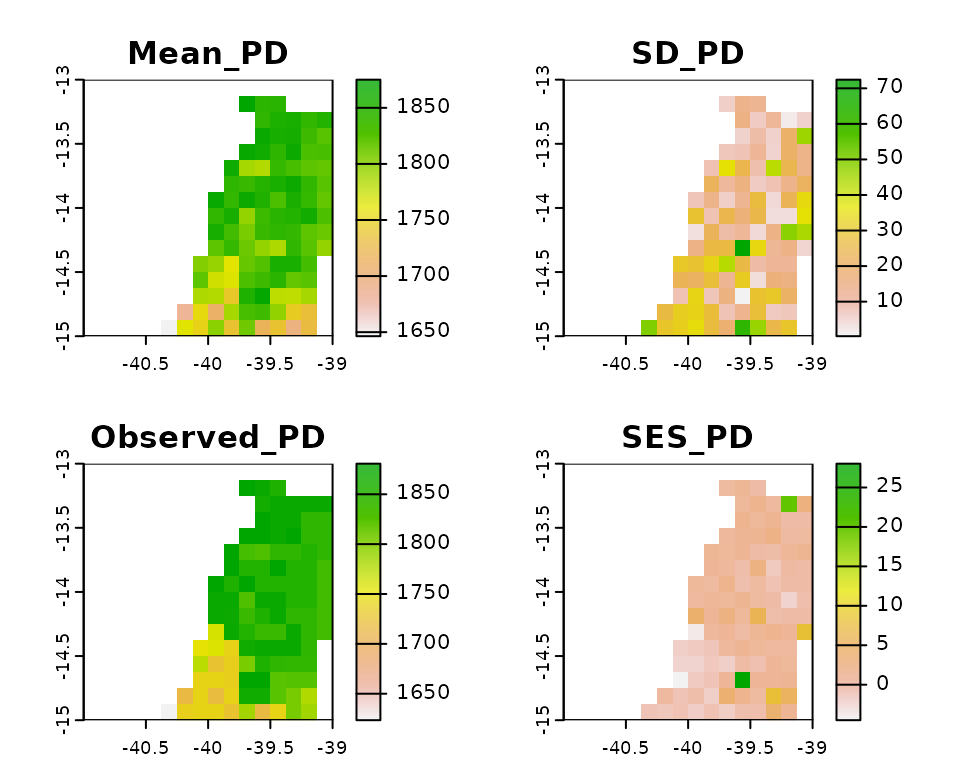
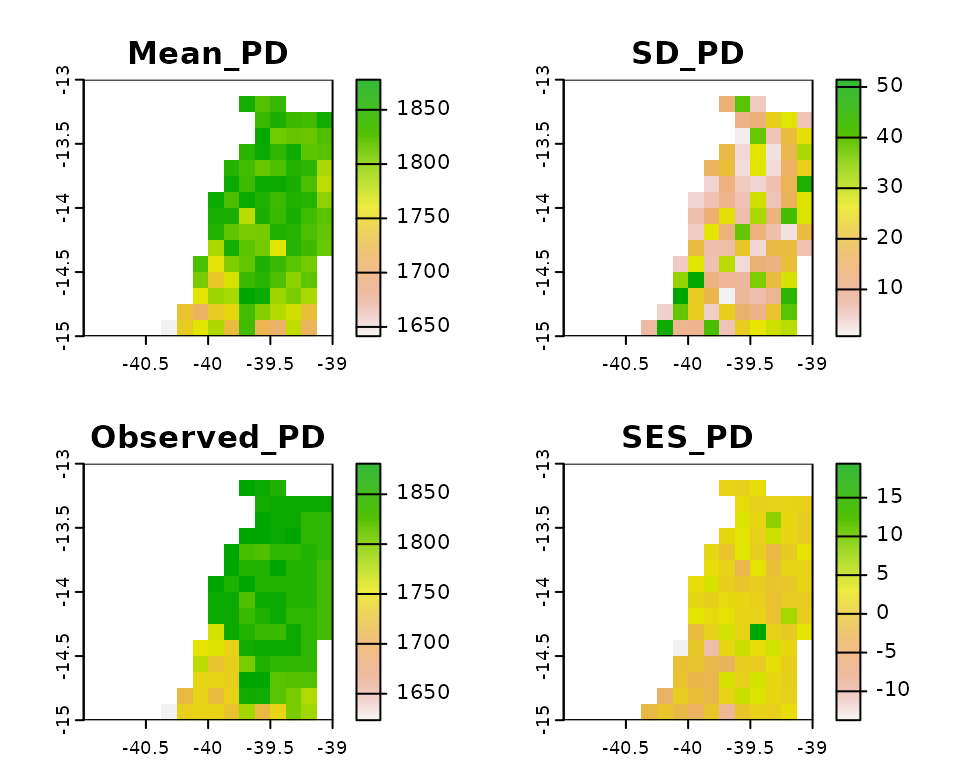
Deploying to gh-pages from @ flaviomoc/divraster@10c078783b43ca5f2b6acb261cac1ab4b65bfc91 🚀

diff --git a/articles/DMSD-vignette.html b/articles/DMSD-vignette.html
@@ -260,9 +260,9 @@ PD alpha diversity.</p>
 <span><span class="co">#&gt; extent      : -41, -39, -15, -13  (xmin, xmax, ymin, ymax)</span></span>
 <span><span class="co">#&gt; coord. ref. : lon/lat WGS 84 (EPSG:4326) </span></span>
 <span><span class="co">#&gt; source(s)   : memory</span></span>
-<span><span class="co">#&gt; names       :  Mean_FD,       SD_FD, Observed_FD,     SES_FD </span></span>
-<span><span class="co">#&gt; min values  : 3.867731, 0.005156558,    3.723151, -11.031019 </span></span>
-<span><span class="co">#&gt; max values  : 4.435728, 0.179340477,    4.378846,   4.201724</span></span>
+<span><span class="co">#&gt; names       :  Mean_FD,      SD_FD, Observed_FD,    SES_FD </span></span>
+<span><span class="co">#&gt; min values  : 3.851190, 0.00274642,    3.723151, -28.04964 </span></span>
+<span><span class="co">#&gt; max values  : 4.429341, 0.13498764,    4.378846,  11.14279</span></span>
 <span><span class="fu">terra</span><span class="fu">::</span><span class="fu"><a href="https://rdrr.io/pkg/terra/man/plot.html" class="external-link">plot</a></span><span class="op">(</span><span class="va">ses.fd</span>, main <span class="op">=</span> <span class="fu"><a href="https://rdrr.io/r/base/names.html" class="external-link">names</a></span><span class="op">(</span><span class="va">ses.fd</span><span class="op">)</span><span class="op">)</span></span></code></pre></div>
 <p><img src="DMSD-vignette_files/figure-html/unnamed-chunk-6-1.png" width="480" style="display: block; margin: auto;"></p>
 <div class="sourceCode" id="cb8"><pre class="downlit sourceCode r">
@@ -276,9 +276,9 @@ PD alpha diversity.</p>
 <span><span class="co">#&gt; extent      : -41, -39, -15, -13  (xmin, xmax, ymin, ymax)</span></span>
 <span><span class="co">#&gt; coord. ref. : lon/lat WGS 84 (EPSG:4326) </span></span>
 <span><span class="co">#&gt; source(s)   : memory</span></span>
-<span><span class="co">#&gt; names       :  Mean_PD,      SD_PD, Observed_PD,    SES_PD </span></span>
-<span><span class="co">#&gt; min values  : 1646.407,  0.2859101,    1623.451, -4.500056 </span></span>
-<span><span class="co">#&gt; max values  : 1875.096, 72.4294706,    1880.676, 28.018516</span></span>
+<span><span class="co">#&gt; names       :  Mean_PD,      SD_PD, Observed_PD,   SES_PD </span></span>
+<span><span class="co">#&gt; min values  : 1641.455,  0.7642228,    1623.451, -13.7298 </span></span>
+<span><span class="co">#&gt; max values  : 1877.746, 51.4401423,    1880.676,  19.3918</span></span>
 <span><span class="fu">terra</span><span class="fu">::</span><span class="fu"><a href="https://rdrr.io/pkg/terra/man/plot.html" class="external-link">plot</a></span><span class="op">(</span><span class="va">ses.pd</span>, main <span class="op">=</span> <span class="fu"><a href="https://rdrr.io/r/base/names.html" class="external-link">names</a></span><span class="op">(</span><span class="va">ses.pd</span><span class="op">)</span><span class="op">)</span></span></code></pre></div>
 <p><img src="DMSD-vignette_files/figure-html/unnamed-chunk-6-2.png" width="480" style="display: block; margin: auto;"></p>
 </div>

diff --git a/reference/spat.rand.html b/reference/spat.rand.html
@@ -136,9 +136,9 @@ a calling function.</p></dd>
 <span class="r-out co"><span class="r-pr">#&gt;</span> extent      : 0, 1, 0, 1  (xmin, xmax, ymin, ymax)</span>
 <span class="r-out co"><span class="r-pr">#&gt;</span> coord. ref. : lon/lat WGS 84 (EPSG:4326) </span>
 <span class="r-out co"><span class="r-pr">#&gt;</span> source(s)   : memory</span>
-<span class="r-out co"><span class="r-pr">#&gt;</span> names       :  Mean_PD,      SD_PD, Observed_PD,    SES_PD </span>
-<span class="r-out co"><span class="r-pr">#&gt;</span> min values  : 2.904360, 0.05865393,    3.359948, -7.453924 </span>
-<span class="r-out co"><span class="r-pr">#&gt;</span> max values  : 9.836963, 1.02796774,   10.571964,  4.723308 </span>
+<span class="r-out co"><span class="r-pr">#&gt;</span> names       :   Mean_PD,     SD_PD, Observed_PD,     SES_PD </span>
+<span class="r-out co"><span class="r-pr">#&gt;</span> min values  :  3.587081, 0.0169720,    3.359948, -15.114472 </span>
+<span class="r-out co"><span class="r-pr">#&gt;</span> max values  : 10.100485, 0.9328035,   10.571964,   8.938911 </span>
 <span class="r-in"><span><span class="fu">spat.rand</span><span class="op">(</span><span class="va">x</span>, <span class="va">traits</span>, <span class="fl">3</span>, <span class="st">"site"</span><span class="op">)</span></span></span>
 <span class="r-out co"><span class="r-pr">#&gt;</span> class       : SpatRaster </span>
 <span class="r-out co"><span class="r-pr">#&gt;</span> dimensions  : 8, 8, 4  (nrow, ncol, nlyr)</span>
@@ -146,9 +146,9 @@ a calling function.</p></dd>
 <span class="r-out co"><span class="r-pr">#&gt;</span> extent      : 0, 1, 0, 1  (xmin, xmax, ymin, ymax)</span>
 <span class="r-out co"><span class="r-pr">#&gt;</span> coord. ref. : lon/lat WGS 84 (EPSG:4326) </span>
 <span class="r-out co"><span class="r-pr">#&gt;</span> source(s)   : memory</span>
-<span class="r-out co"><span class="r-pr">#&gt;</span> names       :   Mean_FD,      SD_FD, Observed_FD,    SES_FD </span>
-<span class="r-out co"><span class="r-pr">#&gt;</span> min values  : 0.4919485, 0.02339968,   0.2374052, -8.593981 </span>
-<span class="r-out co"><span class="r-pr">#&gt;</span> max values  : 1.1611781, 0.25458588,   1.2493508,  6.723325 </span>
+<span class="r-out co"><span class="r-pr">#&gt;</span> names       :   Mean_FD,      SD_FD, Observed_FD,     SES_FD </span>
+<span class="r-out co"><span class="r-pr">#&gt;</span> min values  : 0.3296794, 0.02085668,   0.2374052, -10.989298 </span>
+<span class="r-out co"><span class="r-pr">#&gt;</span> max values  : 1.2256592, 0.25501741,   1.2493508,   6.108327 </span>
 <span class="r-in"><span></span></span>
 </code></pre></div>
     </div>
